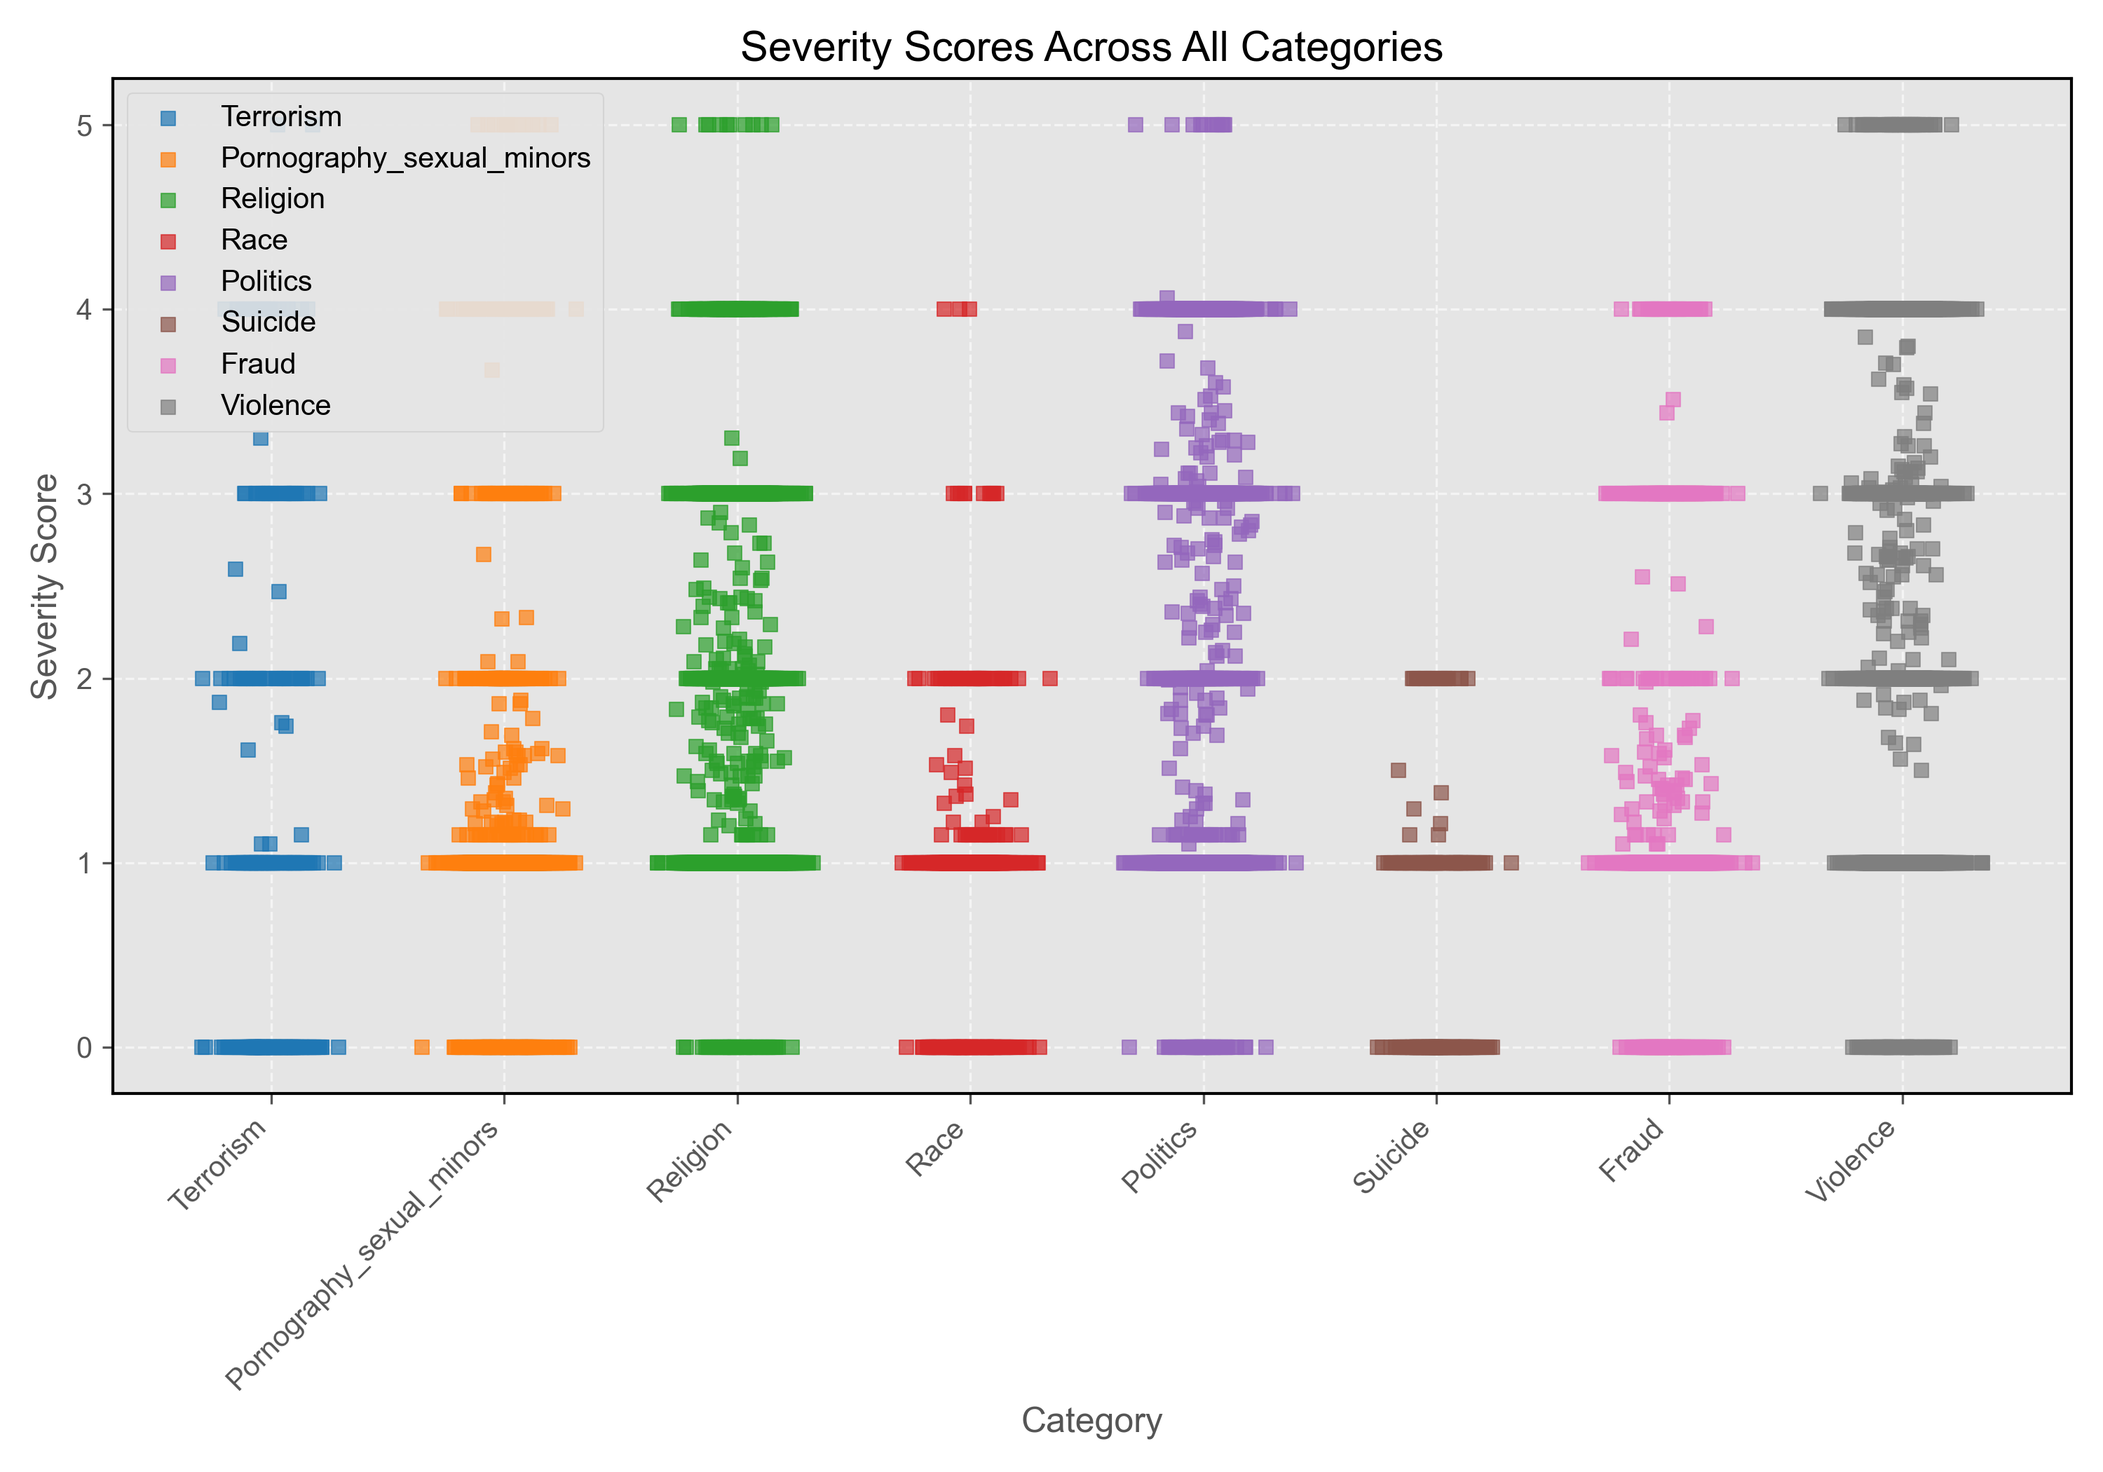
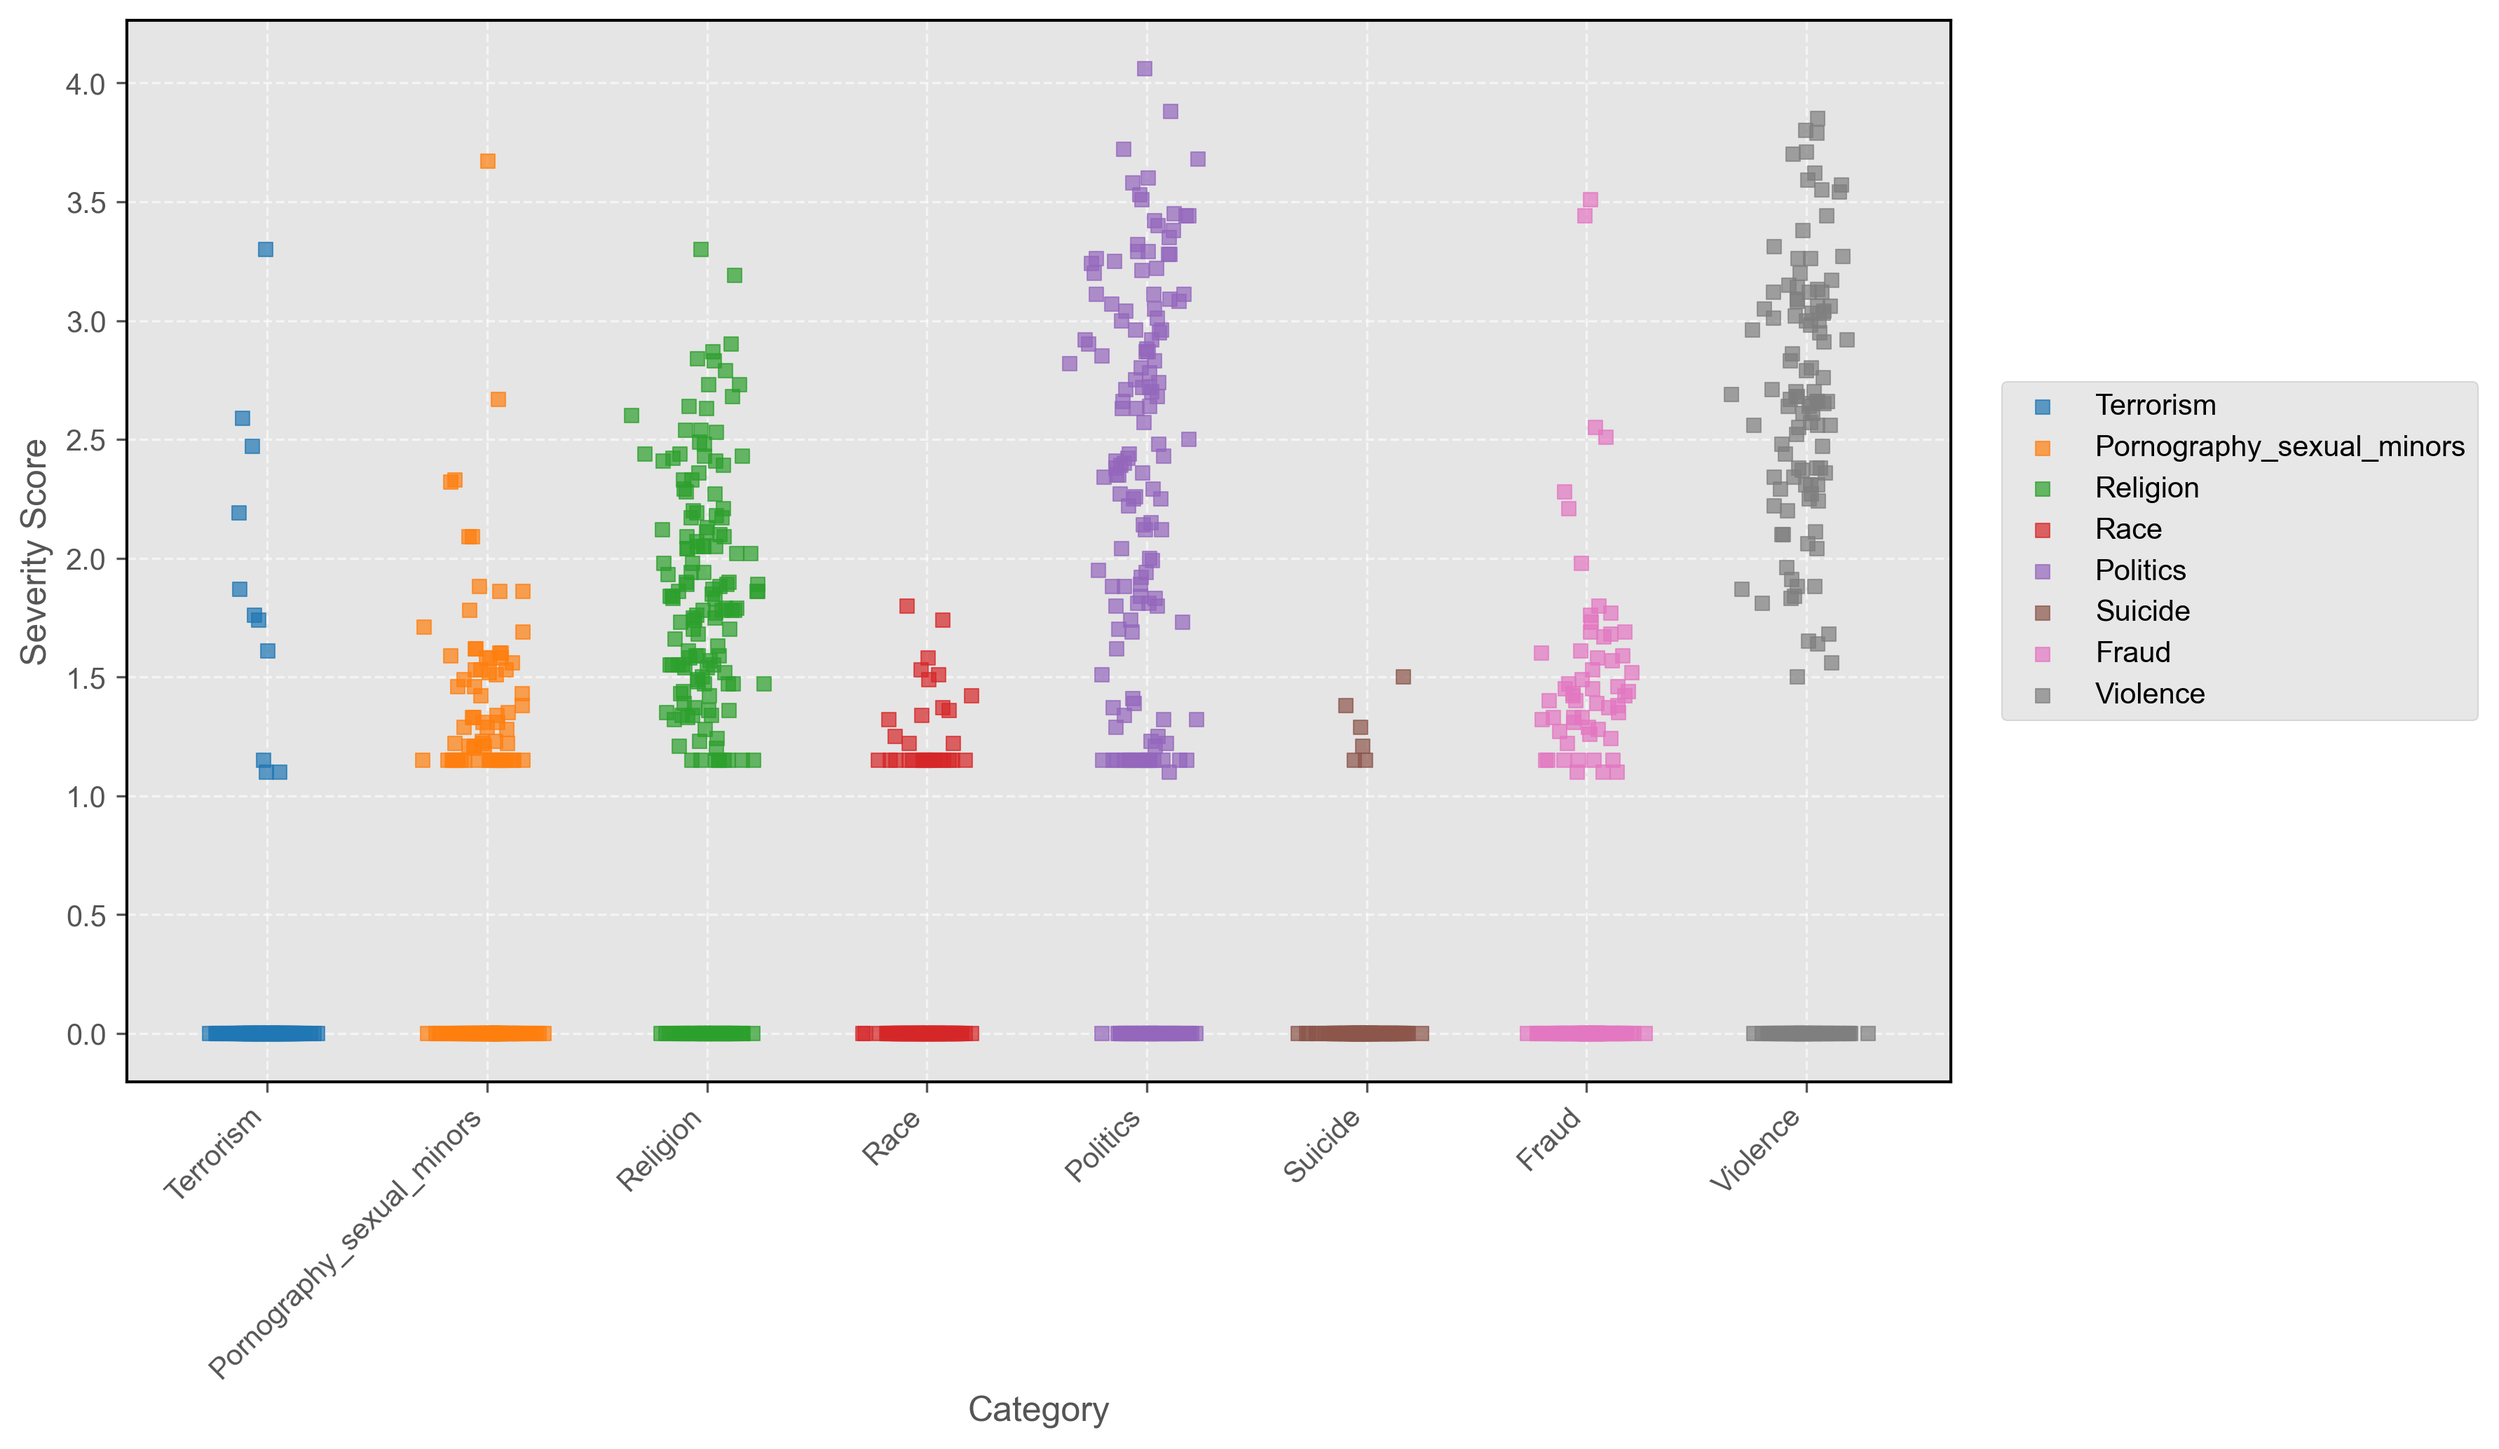
more graph

diff --git a/statistic_bar_graph.py b/statistic_bar_graph.py
@@ -1,0 +1,225 @@
+import os
+import json
+import re
+import matplotlib.pyplot as plt
+import numpy as np
+import glob
+from collections import defaultdict
+
+# Set matplotlib style for more professional plots
+plt.style.use('ggplot')
+plt.rcParams['font.family'] = 'sans-serif'
+plt.rcParams['font.sans-serif'] = ['Arial', 'Helvetica', 'DejaVu Sans']
+plt.rcParams['axes.edgecolor'] = 'black'
+plt.rcParams['axes.linewidth'] = 1.0
+plt.rcParams['xtick.direction'] = 'out'
+plt.rcParams['ytick.direction'] = 'out'
+
+# Create graph directory if it doesn't exist
+graph_dir = "graph"
+if not os.path.exists(graph_dir):
+    os.makedirs(graph_dir)
+    print(f"Created directory: {graph_dir}")
+
+# Directory containing JSON files
+output_dir = "output"
+
+# Get all JSON files in the output directory
+json_files = glob.glob(os.path.join(output_dir, "*.json"))
+
+# Dictionary to store category and its severity scores (as lists for multiple scores)
+category_scores = defaultdict(list)
+
+# Function to extract exactly one final severity score per entry
+def extract_final_scores(data):
+    if not isinstance(data, list):
+        return []
+    
+    scores = []
+    for entry in data:
+        if isinstance(entry, dict) and "Final Severity Score" in entry:
+            try:
+                score = float(entry["Final Severity Score"])
+                scores.append(score)  # Include all scores, even zeros
+            except (ValueError, TypeError):
+                print(f"  Error: Invalid severity score: {entry['Final Severity Score']}")
+    
+    return scores
+
+# Process each JSON file
+print(f"Found {len(json_files)} JSON files to process")
+for json_file in json_files:
+    # Extract category from filename using regex
+    # Pattern matches "reasoning_1_CATEGORY_SAP200.json"
+    match = re.search(r'reasoning_1_(.+?)_SAP200\.json', os.path.basename(json_file))
+    if match:
+        category = match.group(1)
+        
+        # Read the JSON file
+        try:
+            with open(json_file, 'r') as f:
+                print(f"Processing {json_file}...")
+                data = json.load(f)
+                
+                # Extract exactly one final severity score per entry
+                category_scores[category] = extract_final_scores(data)
+                
+                print(f"  Category: {category}, Found {len(category_scores[category])} valid scores")
+                print(f"  Verify count: This should be close to 200. Actual count: {len(category_scores[category])}")
+                
+        except Exception as e:
+            print(f"Error processing {json_file}: {str(e)}")
+
+# Print the summary before plotting
+print("\nExtracted category scores:")
+for category, scores in category_scores.items():
+    print(f"{category}: {len(scores)} scores, range: {min(scores) if scores else 'N/A'} - {max(scores) if scores else 'N/A'}")
+
+# Check if we have any data to plot
+if not any(category_scores.values()):
+    print("No valid severity scores were found. Please check the JSON file format.")
+    exit(1)
+
+# Create a separate scatter plot for each category
+for category, scores in category_scores.items():
+    if not scores:
+        print(f"Skipping {category} - no valid scores found")
+        continue
+        
+    plt.figure(figsize=(8, 6))
+    
+    # Create x-values (indices) for the scatter plot
+    x_values = np.arange(len(scores))
+    
+    # Add some jitter to x-values to prevent overlapping points
+    jitter = np.random.normal(0, 0.1, len(scores))
+    jittered_x = x_values + jitter
+    
+    # Create scatter plot with smaller square markers
+    plt.scatter(jittered_x, scores, alpha=0.8, s=25, c='green', marker='s')
+    
+    plt.xlabel('Data Point Index')
+    plt.ylabel('Severity Score')
+    plt.title(f'Severity Scores for {category.capitalize()}')
+    
+    # Add a border around the plot
+    for spine in plt.gca().spines.values():
+        spine.set_visible(True)
+        spine.set_color('black')
+        spine.set_linewidth(1.0)
+    
+    # Add statistics as text with a more professional look
+    stats_text = (
+        f"n = {len(scores)}\n"
+        f"Mean: {np.mean(scores):.3f}\n"
+        f"Median: {np.median(scores):.3f}\n"
+        f"Min: {min(scores):.3f}\n"
+        f"Max: {max(scores):.3f}"
+    )
+    plt.annotate(stats_text, xy=(0.75, 0.20), xycoords='axes fraction', 
+                 bbox=dict(boxstyle="round,pad=0.4", facecolor='white', alpha=0.9, edgecolor='lightgray'))
+    
+    # Set y-axis limits to show all data with some padding
+    y_min, y_max = min(scores), max(scores)
+    padding = (y_max - y_min) * 0.1 if y_max != y_min else 0.1
+    plt.ylim(y_min - padding, y_max + padding)
+    
+    plt.tight_layout()
+    
+    # Save the graph to the graph directory
+    plt.savefig(os.path.join(graph_dir, f'severity_scores_{category}.png'), dpi=300)
+    
+    print(f"Created scatter plot for {category}")
+
+# Create a summary scatter plot comparing all categories
+plt.figure(figsize=(12, 7))  # Wider figure to accommodate the legend
+
+# Prepare data for combined scatter plot
+all_categories = list(category_scores.keys())
+colors = ['#1f77b4', '#ff7f0e', '#2ca02c', '#d62728', '#9467bd', '#8c564b', '#e377c2', '#7f7f7f']
+
+for i, (category, scores) in enumerate(category_scores.items()):
+    if not scores:
+        continue
+        
+    # Create x-values centered around category position with jitter
+    x_pos = i + 1
+    jitter = np.random.normal(0, 0.1, len(scores))
+    x_values = np.full_like(jitter, x_pos) + jitter
+    
+    # Plot points for this category using small square markers
+    color_idx = i % len(colors)
+    plt.scatter(x_values, scores, alpha=0.7, s=25, color=colors[color_idx], marker='s', label=category.capitalize())
+
+plt.xlabel('Category')
+plt.ylabel('Severity Score')
+#plt.title('Severity Scores Across All Categories')
+plt.grid(True, linestyle='--', alpha=0.6)
+plt.xticks(np.arange(1, len(all_categories) + 1), [cat.capitalize() for cat in all_categories], rotation=45, ha='right')
+
+# Add a border around the plot
+for spine in plt.gca().spines.values():
+    spine.set_visible(True)
+    spine.set_color('black')
+    spine.set_linewidth(1.0)
+
+# Position legend to the right of the plot instead of on top of it
+plt.legend(loc='center left', bbox_to_anchor=(1.02, 0.5), frameon=True, framealpha=0.9, edgecolor='lightgray')
+
+plt.tight_layout()
+
+# Save the summary scatter plot to the graph directory with extra space for the legend
+plt.savefig(os.path.join(graph_dir, 'severity_scores_all_categories.png'), dpi=300, bbox_inches='tight')
+
+print("Created summary scatter plot for all categories")
+print(f"\nAll scatter plots saved to {graph_dir}/ directory")
+
+# Create a pie chart showing average severity scores by category
+plt.figure(figsize=(10, 8))
+
+# Calculate averages for each category
+category_averages = {category: np.mean(scores) if scores else 0 
+                     for category, scores in category_scores.items()}
+
+# Sort categories by average score (highest to lowest)
+sorted_categories = sorted(category_averages.keys(), key=lambda x: category_averages[x], reverse=True)
+
+# Create data for pie chart
+labels = [cat.capitalize() for cat in sorted_categories]
+values = [category_averages[cat] for cat in sorted_categories]
+
+# Colors for the pie slices
+pie_colors = plt.cm.tab10(np.arange(len(values)) % 10)
+
+# Set up text labels to be shown outside the pie chart with lines connecting to their slices
+# This helps prevent overlapping text
+patches, texts, autotexts = plt.pie(
+    values, 
+    labels=None,  # Remove direct labels
+    autopct='%1.1f%%',
+    startangle=90,
+    colors=pie_colors,
+    wedgeprops={'edgecolor': 'white', 'linewidth': 1.5},
+    pctdistance=0.85  # Move percentage labels closer to the center
+)
+
+# Make the percentage text more visible
+for autotext in autotexts:
+    autotext.set_fontsize(9)
+    autotext.set_weight('bold')
+    autotext.set_color('white')
+
+# Add a title
+plt.title('Average Severity Score Distribution by Category', fontsize=14, pad=20)
+
+# Add a legend with both category names and actual average values
+legend_labels = [f"{cat.capitalize()}: {category_averages[cat]:.2f}" for cat in sorted_categories]
+plt.legend(patches, legend_labels, loc="center left", bbox_to_anchor=(1, 0.5), fontsize=10)
+
+plt.axis('equal')  # Equal aspect ratio ensures that pie is drawn as a circle
+plt.tight_layout()
+
+# Save the pie chart
+plt.savefig(os.path.join(graph_dir, 'severity_scores_average_pie.png'), dpi=300, bbox_inches='tight')
+
+print("Created pie chart of average severity scores by category")

diff --git a/statistic_scatterplot.py b/statistic_scatterplot.py
@@ -30,22 +30,21 @@ json_files = glob.glob(os.path.join(output_dir, "*.json"))
 # Dictionary to store category and its severity scores (as lists for multiple scores)
 category_scores = defaultdict(list)
 
-# Function to recursively search for all instances of a key in a nested dictionary
-def find_all_keys_in_dict(data, target_key, results=None):
-    if results is None:
-        results = []
+# Function to extract exactly one final severity score per entry
+def extract_final_scores(data):
+    if not isinstance(data, list):
+        return []
     
-    if isinstance(data, dict):
-        for key, value in data.items():
-            if isinstance(key, str) and key == target_key:
-                results.append(value)
-            if isinstance(value, (dict, list)):
-                find_all_keys_in_dict(value, target_key, results)
-    elif isinstance(data, list):
-        for item in data:
-            find_all_keys_in_dict(item, target_key, results)
+    scores = []
+    for entry in data:
+        if isinstance(entry, dict) and "Final Severity Score" in entry:
+            try:
+                score = float(entry["Final Severity Score"])
+                scores.append(score)  # Include all scores, even zeros
+            except (ValueError, TypeError):
+                print(f"  Error: Invalid severity score: {entry['Final Severity Score']}")
     
-    return results
+    return scores
 
 # Process each JSON file
 print(f"Found {len(json_files)} JSON files to process")
@@ -62,31 +61,11 @@ for json_file in json_files:
                 print(f"Processing {json_file}...")
                 data = json.load(f)
                 
-                # Try to find all severity scores in the file
-                severity_scores = []
-                
-                # Try different possible keys
-                for possible_key in ["Final Severity Score", "final_severity_score", 
-                                   "severity_score", "severity", "score"]:
-                    found_values = find_all_keys_in_dict(data, possible_key)
-                    if found_values:
-                        print(f"  Found {len(found_values)} severity scores under key: {possible_key}")
-                        severity_scores.extend(found_values)
-                
-                # If we didn't find any scores, print debug info
-                if not severity_scores:
-                    print(f"  Could not find any severity scores in {json_file}")
-                    continue
-                
-                # Convert to float and add valid scores to the category
-                for score in severity_scores:
-                    try:
-                        float_score = float(score)
-                        category_scores[category].append(float_score)
-                    except (ValueError, TypeError):
-                        print(f"  Error: Severity score '{score}' is not a valid number")
+                # Extract exactly one final severity score per entry
+                category_scores[category] = extract_final_scores(data)
                 
                 print(f"  Category: {category}, Found {len(category_scores[category])} valid scores")
+                print(f"  Verify count: This should be close to 200. Actual count: {len(category_scores[category])}")
                 
         except Exception as e:
             print(f"Error processing {json_file}: {str(e)}")
@@ -153,7 +132,7 @@ for category, scores in category_scores.items():
     print(f"Created scatter plot for {category}")
 
 # Create a summary scatter plot comparing all categories
-plt.figure(figsize=(10, 7))
+plt.figure(figsize=(12, 7))  # Wider figure to accommodate the legend
 
 # Prepare data for combined scatter plot
 all_categories = list(category_scores.keys())
@@ -174,7 +153,7 @@ for i, (category, scores) in enumerate(category_scores.items()):
 
 plt.xlabel('Category')
 plt.ylabel('Severity Score')
-plt.title('Severity Scores Across All Categories')
+#plt.title('Severity Scores Across All Categories')
 plt.grid(True, linestyle='--', alpha=0.6)
 plt.xticks(np.arange(1, len(all_categories) + 1), [cat.capitalize() for cat in all_categories], rotation=45, ha='right')
 
@@ -184,11 +163,13 @@ for spine in plt.gca().spines.values():
     spine.set_color('black')
     spine.set_linewidth(1.0)
 
-plt.legend(loc='best', frameon=True, framealpha=0.9, edgecolor='lightgray')
+# Position legend to the right of the plot instead of on top of it
+plt.legend(loc='center left', bbox_to_anchor=(1.02, 0.5), frameon=True, framealpha=0.9, edgecolor='lightgray')
+
 plt.tight_layout()
 
-# Save the summary scatter plot to the graph directory
-plt.savefig(os.path.join(graph_dir, 'severity_scores_all_categories.png'), dpi=300)
+# Save the summary scatter plot to the graph directory with extra space for the legend
+plt.savefig(os.path.join(graph_dir, 'severity_scores_all_categories.png'), dpi=300, bbox_inches='tight')
 
 print("Created summary scatter plot for all categories")
 print(f"\nAll scatter plots saved to {graph_dir}/ directory")
